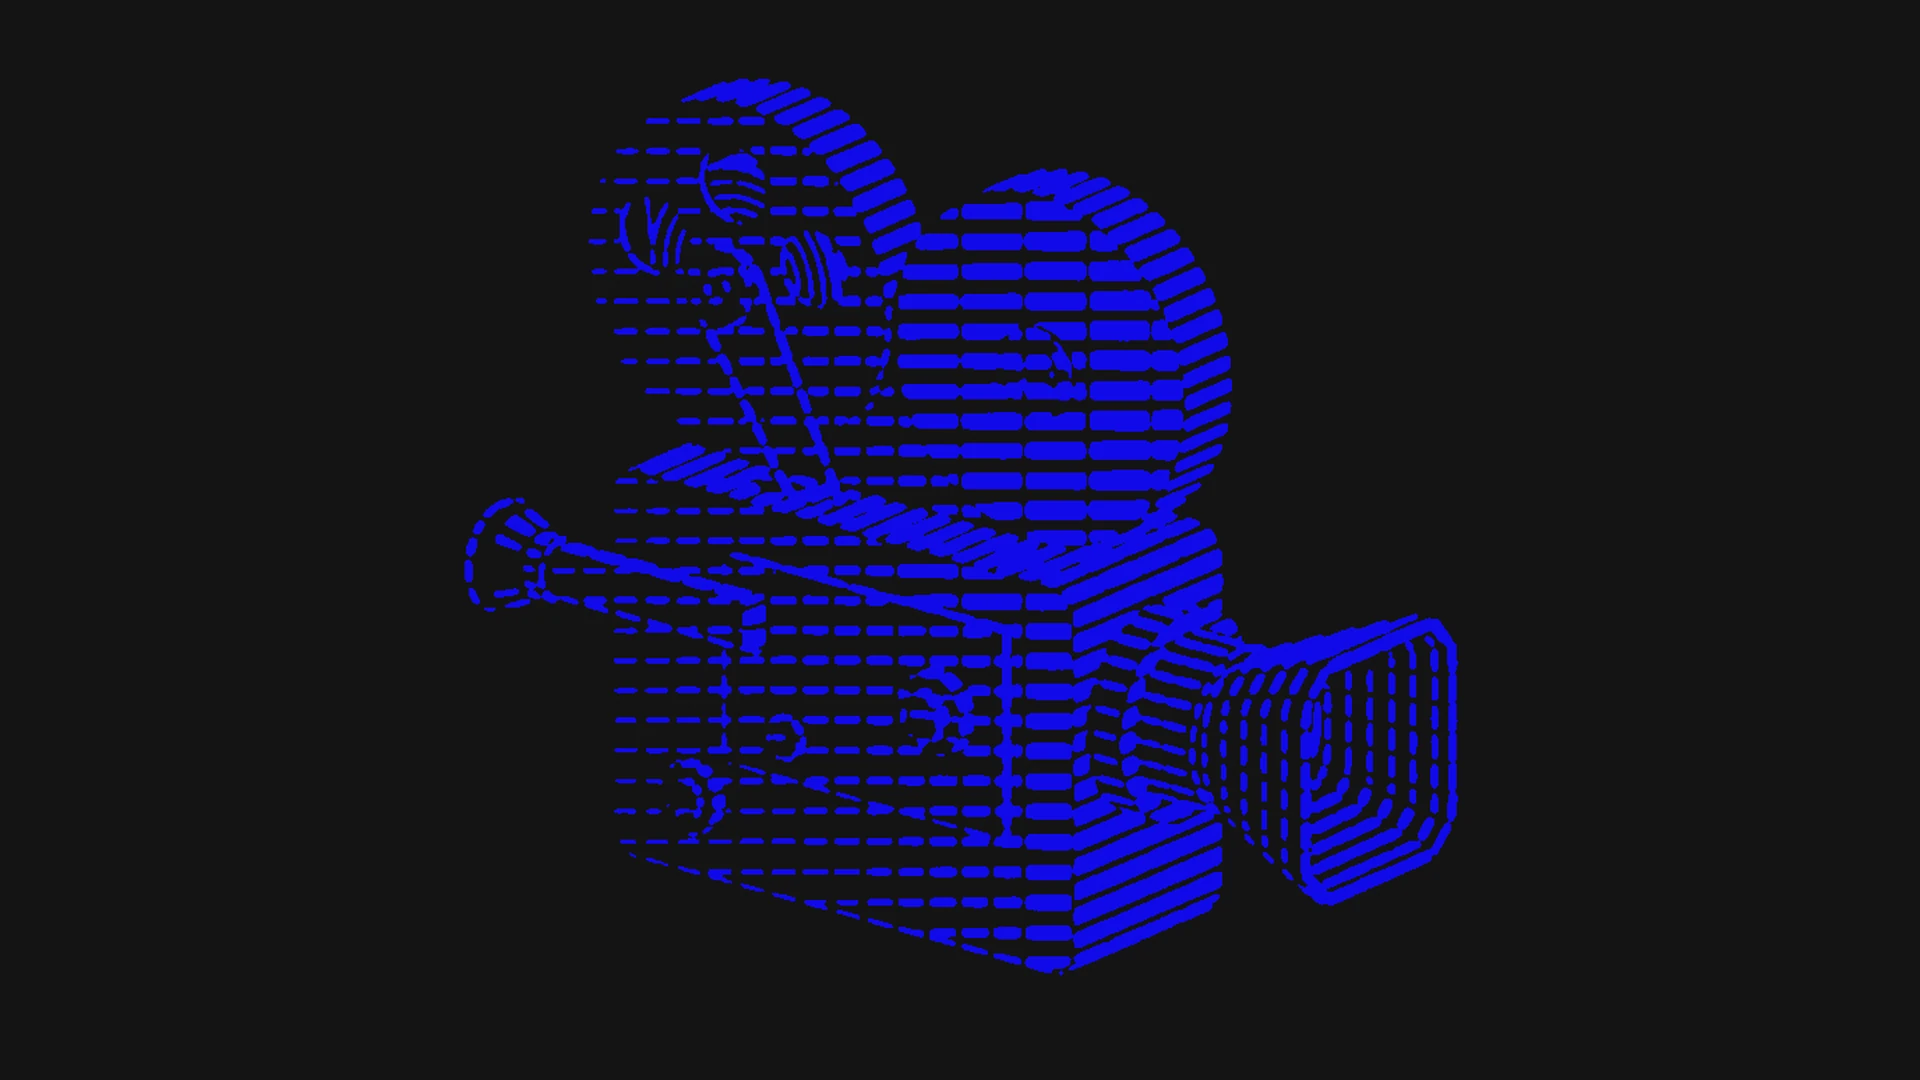
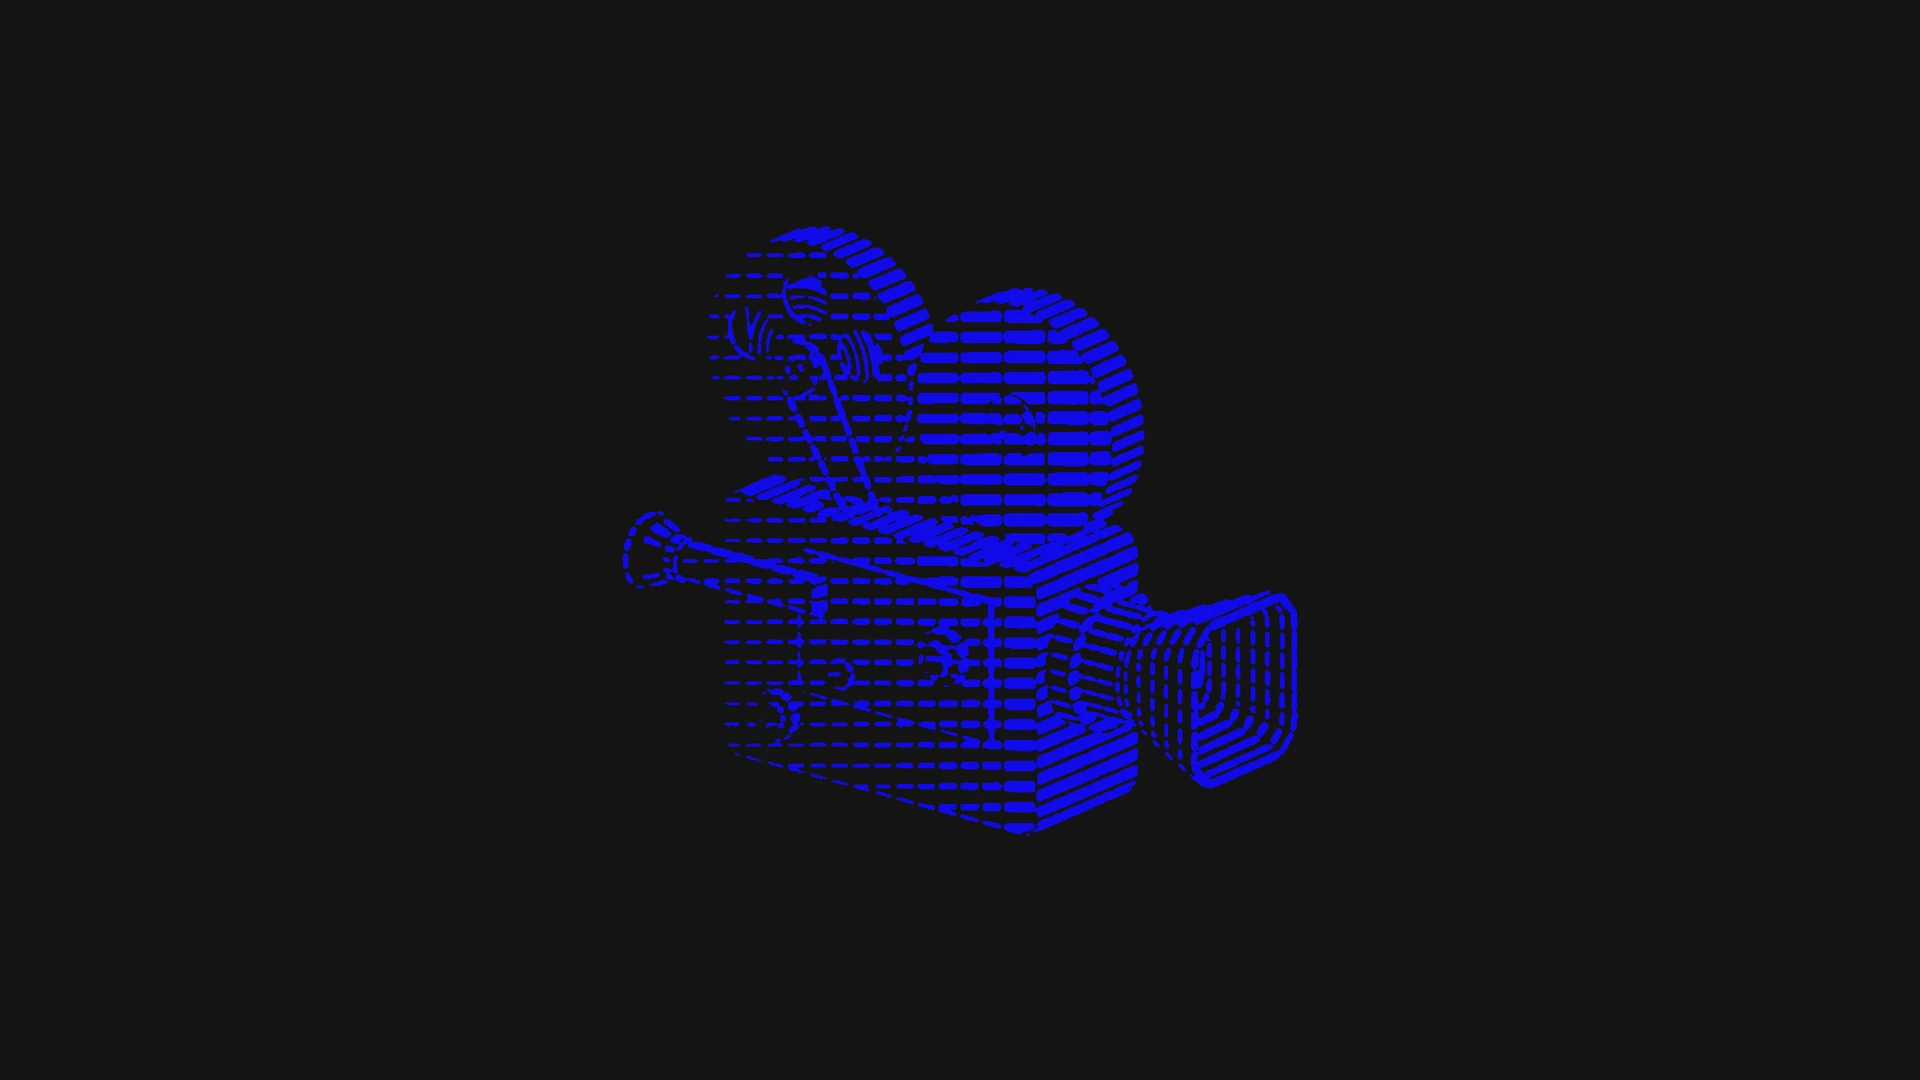
website: margin around the integrator and creator menu drawings

Changed region(s): [[0.2188, 0.0611, 0.7812, 0.9167]]

diff --git a/packages/twenty-website/AGENTS.md b/packages/twenty-website/AGENTS.md
@@ -1,0 +1,9 @@
+<!-- BEGIN:nextjs-agent-rules -->
+
+## This is NOT the Next.js you know
+
+This version has breaking changes — APIs, conventions, and file structure may all differ from your training data. Read the relevant guide in `node_modules/next/dist/docs/` (resolved from this file's directory; in monorepos the `next` package may not be visible from the repo root) before writing any code. Heed deprecation notices.
+
+This block is written and re-added by `next dev` — verify at `node_modules/next/dist/server/lib/generate-agent-files.js`. Removing it from a diff only re-creates the uncommitted change; committing it with your work keeps the tree clean.
+
+<!-- END:nextjs-agent-rules -->
